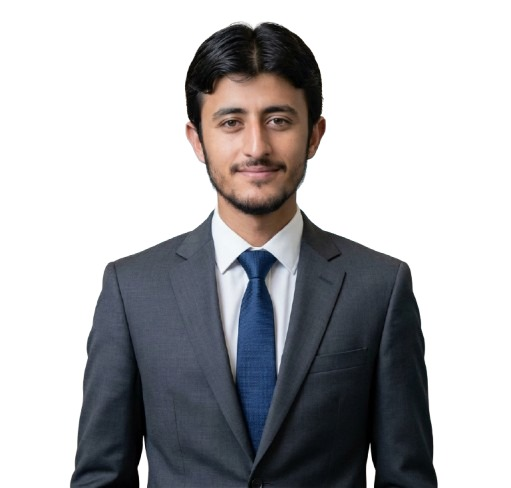
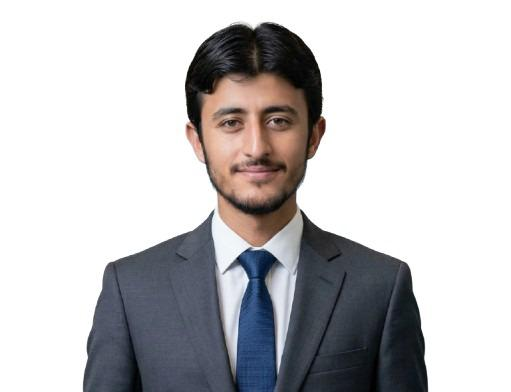
Alhamdulillah

Changed region(s): [[0.1174, 0.0306, 0.8806, 1.0]]

diff --git a/lib/screens/dashboard_screen.dart b/lib/screens/dashboard_screen.dart
@@ -651,35 +651,21 @@ class _DashboardScreenState extends State<DashboardScreen> with WidgetsBindingOb
   }
 
   Widget _buildFloatingActionButton() {
-    // Show Add House FAB for landlords, Customer Support for tenants
-    if (_currentUser?.userType == AppConstants.userTypeLandlord) {
-      return FloatingActionButton(
-        onPressed: () {
-          Navigator.push(
-            context,
-            MaterialPageRoute(builder: (_) => const AddHouseScreen()),
-          );
-        },
-        backgroundColor: Color(0xFF1A237E),
-        child: const Icon(Icons.add, color: Colors.white),
-      );
-    } else {
-      // Show Customer Support for tenants
-      return FloatingActionButton.extended(
-        onPressed: () {
-          Navigator.push(
-            context,
-            MaterialPageRoute(builder: (_) => const AIChatbotScreen()),
-          );
-        },
-        backgroundColor: Color(0xFF1A237E),
-        icon: const Icon(Icons.support_agent, color: Colors.white),
-        label: const Text(
-          'Need Help?',
-          style: TextStyle(color: Colors.white, fontWeight: FontWeight.bold),
-        ),
-      );
-    }
+    // Show Customer Support for both landlords and tenants
+    return FloatingActionButton.extended(
+      onPressed: () {
+        Navigator.push(
+          context,
+          MaterialPageRoute(builder: (_) => const AIChatbotScreen()),
+        );
+      },
+      backgroundColor: Color(0xFF1A237E),
+      icon: const Icon(Icons.support_agent, color: Colors.white),
+      label: const Text(
+        'Need Help?',
+        style: TextStyle(color: Colors.white, fontWeight: FontWeight.bold),
+      ),
+    );
   }
 
   Widget _buildCategoryTab(String title, int index) {

diff --git a/lib/screens/ai_chatbot_screen.dart b/lib/screens/ai_chatbot_screen.dart
@@ -129,6 +129,7 @@ class _AIChatbotScreenState extends State<AIChatbotScreen> {
   @override
   Widget build(BuildContext context) {
     return Scaffold(
+      resizeToAvoidBottomInset: false,
       appBar: AppBar(
         title: Row(
           children: [
@@ -250,6 +251,7 @@ class _AIChatbotScreenState extends State<AIChatbotScreen> {
               ],
             ),
             child: Row(
+              crossAxisAlignment: CrossAxisAlignment.end,
               children: [
                 Expanded(
                   child: Container(
@@ -263,8 +265,10 @@ class _AIChatbotScreenState extends State<AIChatbotScreen> {
                       decoration: const InputDecoration(
                         hintText: 'Ask me anything...',
                         border: InputBorder.none,
+                        contentPadding: EdgeInsets.symmetric(vertical: 12),
                       ),
-                      maxLines: null,
+                      maxLines: 2,
+                      minLines: 1,
                       textCapitalization: TextCapitalization.sentences,
                       onSubmitted: (_) => _sendMessage(),
                     ),
